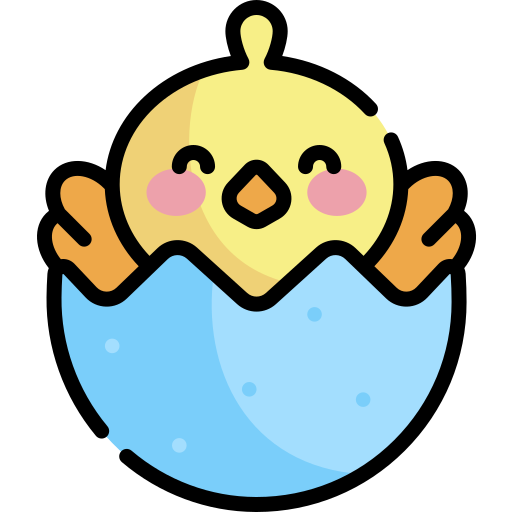
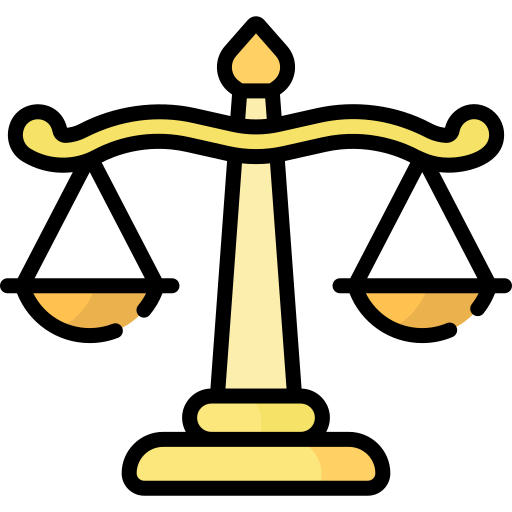
Versión 0.2

diff --git a/main.py b/main.py
@@ -56,6 +56,30 @@ UNIDADES_PESO = {
 }
 UNIDADES_PESO_LISTA = list(UNIDADES_PESO.keys())
 
+# Formas singulares de las unidades para etiquetas
+UNIDADES_PESO_SINGULAR = {
+    "miligramos (mg)": "miligramo (mg)",
+    "gramos (g)": "gramo (g)",
+    "kilogramos (kg)": "kilogramo (kg)",
+    "toneladas (t)": "tonelada (t)",
+    "granos (gn)": "grano (gn)",
+    "dracmas (dr)": "dracma (dr)",
+    "onzas (oz)": "onza (oz)",
+    "libras (lb)": "libra (lb)",
+}
+
+# Género gramatical de las unidades (True = masculino, False = femenino)
+UNIDADES_PESO_GENERO = {
+    "miligramos (mg)": True,
+    "gramos (g)": True,
+    "kilogramos (kg)": True,
+    "toneladas (t)": False,
+    "granos (gn)": True,
+    "dracmas (dr)": True,
+    "onzas (oz)": False,
+    "libras (lb)": False,
+}
+
 SIMBOLO_DEFECTO = "€"
 UNIDAD_DEFECTO  = "gramos (g)"
 
@@ -66,6 +90,19 @@ PRECISION_MOSTRAR = Decimal("0.01")
 # ─────────────────────────────────────────────
 # UTILIDADES PURAS
 # ─────────────────────────────────────────────
+
+def obtener_unidad_forma(unidad: str, plural: bool = True) -> str:
+    """Devuelve la unidad en singular o plural según el contexto."""
+    if plural:
+        return unidad
+    return UNIDADES_PESO_SINGULAR.get(unidad, unidad)
+
+
+def obtener_articulo(unidad: str) -> str:
+    """Devuelve el artículo correcto (el/la) según el género de la unidad."""
+    es_masculino = UNIDADES_PESO_GENERO.get(unidad, True)
+    return "el" if es_masculino else "la"
+
 
 def normalizar_entrada(texto: str) -> str:
     """Reemplaza coma por punto para parsear el número."""
@@ -631,7 +668,9 @@ class PantallaPrincipal(BoxLayout):
     # ── Etiquetas dinámicas ───────────────────────────────────────────
 
     def _etiqueta_precio_unidad(self) -> str:
-        return f"Precio por {self._unidad_actual} ({self._simbolo_actual})"
+        unidad_singular = obtener_unidad_forma(self._unidad_actual, plural=False)
+        articulo = obtener_articulo(self._unidad_actual)
+        return f"A cuánto está {articulo} {unidad_singular} ({self._simbolo_actual})"
 
     def _etiqueta_precio_total(self) -> str:
         return f"Precio total ({self._simbolo_actual})"